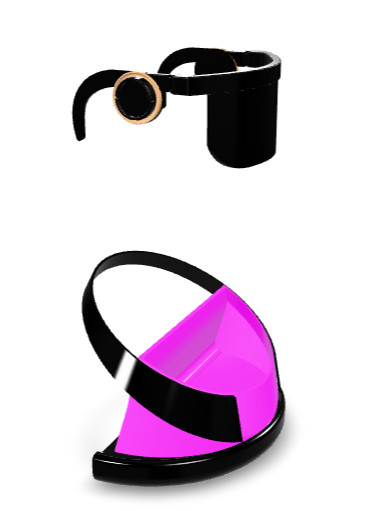
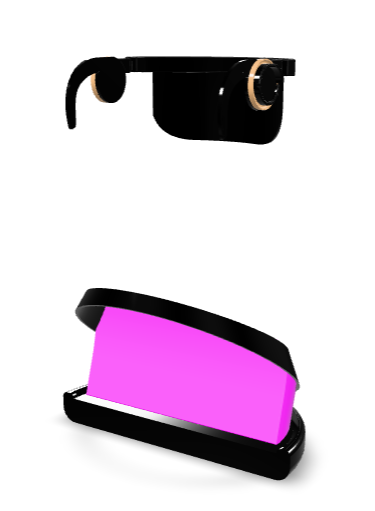
Add files via upload

Changed region(s): [[0.1467, 0.4697, 0.8507, 0.998], [0.176, 0.0881, 0.792, 0.3523], [0.5867, 0.1761, 0.616, 0.2055]]

diff --git a/index.html b/index.html
@@ -9,23 +9,10 @@
   </head>
   <body>
     <!-- <model-viewer> HTML element -->
+   
     <model-viewer src="Position.glb" ar ar-modes="scene-viewer webxr quick-look" camera-controls tone-mapping="neutral" poster="poster.png" shadow-intensity="1" camera-orbit="-27.63deg 70.66deg 0.9018m" field-of-view="30deg" auto-rotate id="gear">
-      <div class="progress-bar hide" slot="progress-bar">
-          <div class="update-bar"></div>
-      </div>
-      <button slot="ar-button" id="ar-button">
-          View in your space
-      </button>
-      <div id="ar-prompt">
-          <img src="ar_hand_prompt.png">
-      </div>
-
-<div style="position:absolute; bottom:0px; right:50%">
-<button onClick="setOrbit('-182deg 79.35deg 0.9018m')">View 1
-</button>
-</div>
-
-<button class="Hotspot" slot="hotspot-1" data-position="0.008777737800453565m 0.3086980632166806m 0.07831157936109036m" data-normal="0.08948429865738262m -2.211538137086202e-16m 0.9959882330097061m" data-visibility-attribute="visible"onMouseOver="addhotspot1()" onMouseOut="removehotspot1()">
+     
+ <button class="Hotspot" slot="hotspot-1" data-position="0.008777737800453565m 0.3086980632166806m 0.07831157936109036m" data-normal="0.08948429865738262m -2.211538137086202e-16m 0.9959882330097061m" data-visibility-attribute="visible"onMouseOver="addhotspot1()" onMouseOut="removehotspot1()">
           <div class="HotspotAnnotation"id="hotspot1"style="visibility:hidden">Visor</div>
 
       </button><button class="Hotspot" slot="hotspot-2" data-position="-0.0867055632587618m 0.3408367103930727m -0.0002947316337368125m" data-normal="-0.9999919492858157m 0.004007817881957588m -0.00019687402032387194m" data-visibility-attribute="visible"onMouseOver="addhotspot2()" onMouseOut="removehotspot2()">
@@ -40,13 +27,24 @@
       </button><button class="Hotspot" slot="hotspot-5" data-position="-0.08945199686819962m 0.017696693918639705m 0.06000093419675688m" data-normal="-0.6702802461922324m -0.004430736726778738m 0.742094845782221m" data-visibility-attribute="visible"onMouseOver="addhotspot5()" onMouseOut="removehotspot5()">
           <div class="HotspotAnnotation"id="hotspot5"style="visibility:hidden">Speaker</div>
 
+      </button>
+      <div class="progress-bar hide" slot="progress-bar">
+          <div class="update-bar"></div>
+      </div>
+      <button slot="ar-button" id="ar-button">
+          View in your space
+      </button>
+      <div id="ar-prompt">
+          <img src="ar_hand_prompt.png">
+      </div>
 
-    </model-viewer>  
+<div style="position:absolute; bottom:0px; right:50%"> 
+  <button onClick="setOrbit('-182deg 79.35deg 0.9018m')">Front</button>
+  </div>
+
+     </model-viewer> 
 
 <script>
-function setOrbit(orbit)
-{document.getElementById('gear').cameraOrbit=orbit;}
-
 function addhotspot1(){
 document.getElementById("hotspot1").style.visibility="visible"
 }
@@ -81,12 +79,16 @@ document.getElementById("hotspot5").style.visibility="visible"
 function removehotspot5(){
 document.getElementById("hotspot5").style.visibility="hidden";
 }
-
 </script>
 
+<script>
+function setOrbit(orbit)
+{document.getElementById('gear').cameraOrbit=orbit;}
+</script>
+
+ 
     <script src="script.js"></script>
     <!-- Loads <model-viewer> for browsers: -->
     <script type="module" src="https://ajax.googleapis.com/ajax/libs/model-viewer/4.0.0/model-viewer.min.js"></script>
   </body>
 </html>
- 

diff --git a/styles.css b/styles.css
@@ -19,6 +19,66 @@ model-viewer {
   background-color: #ffffff;
 }
 
+.Hotspot {
+  background: #fff;
+  border-radius: 32px;
+  border: 0;
+  box-shadow: 0 2px 4px rgba(0, 0, 0, 0.25);
+  box-sizing: border-box;
+  cursor: pointer;
+  height: 24px;
+  padding: 8px;
+  position: relative;
+  transition: opacity 0.3s;
+  width: 24px;
+}
+
+.Hotspot:not([data-visible]) {
+  background: transparent;
+  border: 4px solid #fff;
+  box-shadow: none;
+  height: 32px;
+  pointer-events: none;
+  width: 32px;
+}
+
+.Hotspot:focus {
+  border: 4px solid rgb(0, 128, 200);
+  height: 32px;
+  outline: none;
+  width: 32px;
+}
+
+.Hotspot > * {
+  opacity: 1;
+  transform: translateY(-50%);
+}
+
+.HotspotAnnotation{
+  background: #fff;
+  border-radius: 4px;
+  box-shadow: 0 2px 4px rgba(0, 0, 0, 0.25);
+  color: rgba(0, 0, 0, 0.8);
+  display: block;
+  font-family: Futura, Helvetica Neue, sans-serif;
+  font-size: 18px;
+  font-weight: 700;
+  left: calc(100% + 1em);
+  max-width: 128px;
+  overflow-wrap: break-word;
+  padding: 0.5em 1em;
+  position: absolute;
+  top: 50%;
+  width: max-content;
+}
+
+.Hotspot:not([data-visible]) > * {
+  opacity: 0;
+  pointer-events: none;
+  transform: translateY(calc(-50% + 4px));
+  transition: transform 0.3s, opacity 0.3s;
+}
+
 
 .progress-bar {
   display: block;
